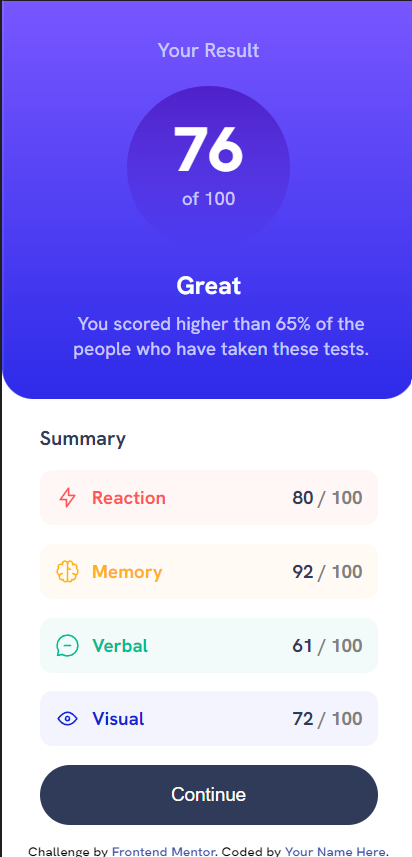
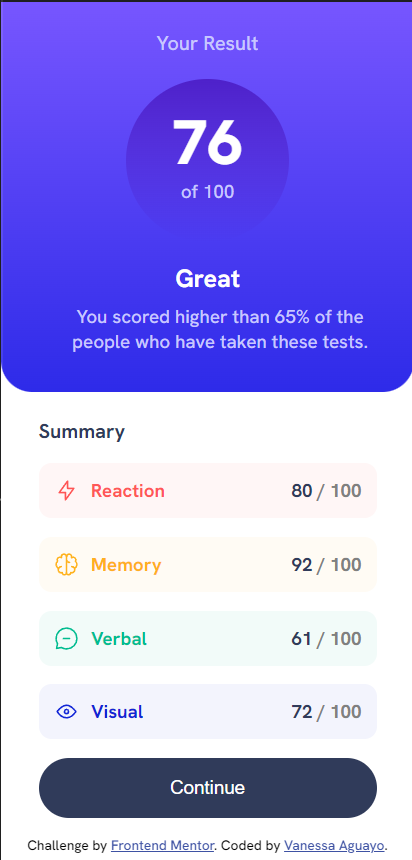
Final Results

diff --git a/index.html b/index.html
@@ -58,7 +58,7 @@
 <footer>
   <div class="attribution">
     Challenge by <a href="https://www.frontendmentor.io?ref=challenge" target="_blank">Frontend Mentor</a>. 
-    Coded by <a href="#">Your Name Here</a>.
+    Coded by <a href="https://github.com/ness505">Vanessa Aguayo</a>.
   </div>
 </footer>
   <script src="script.js"></script>
